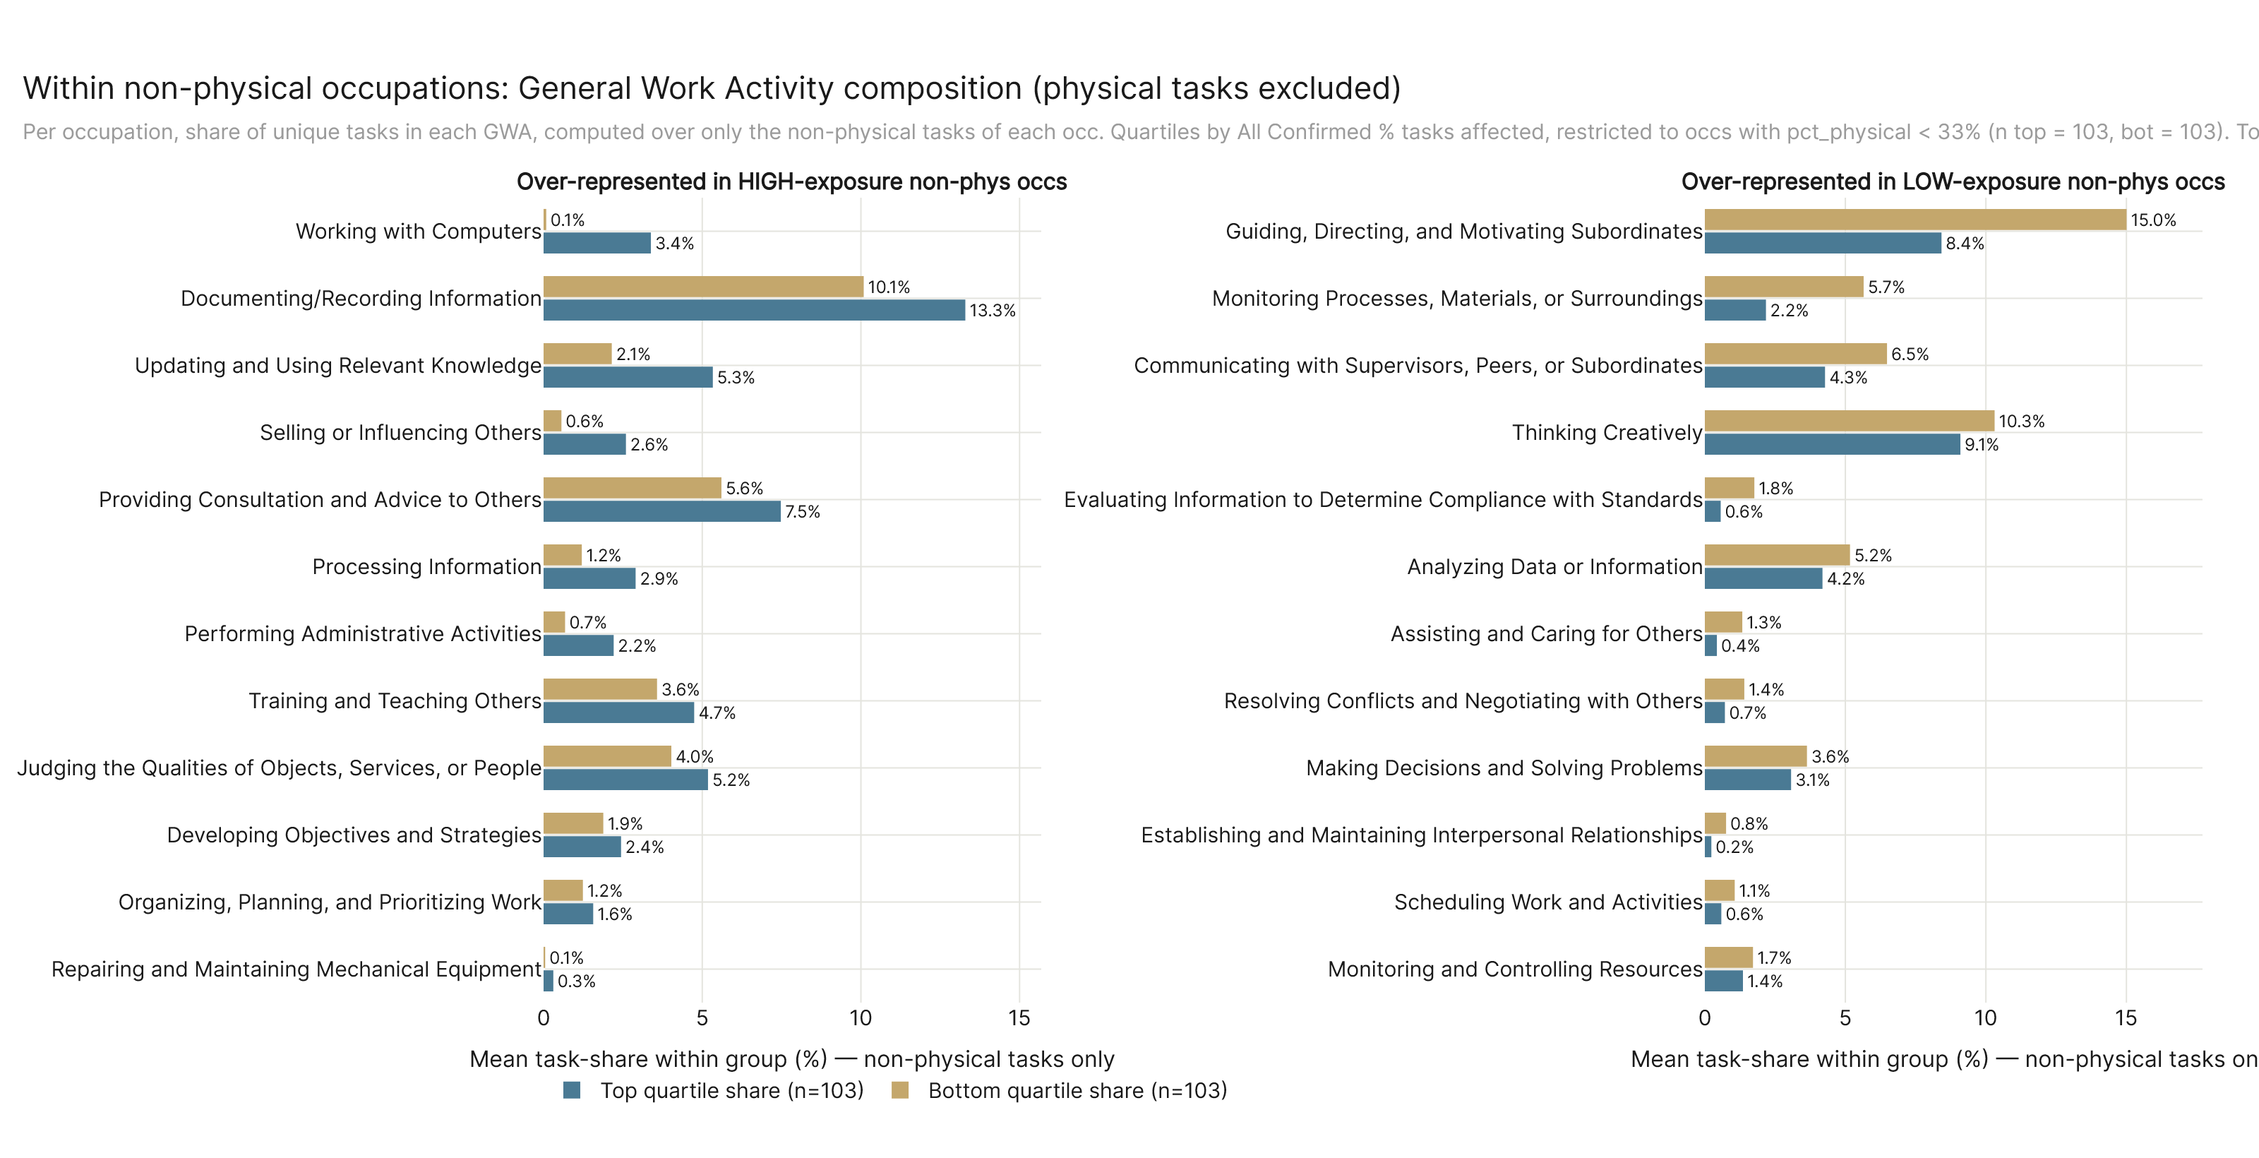
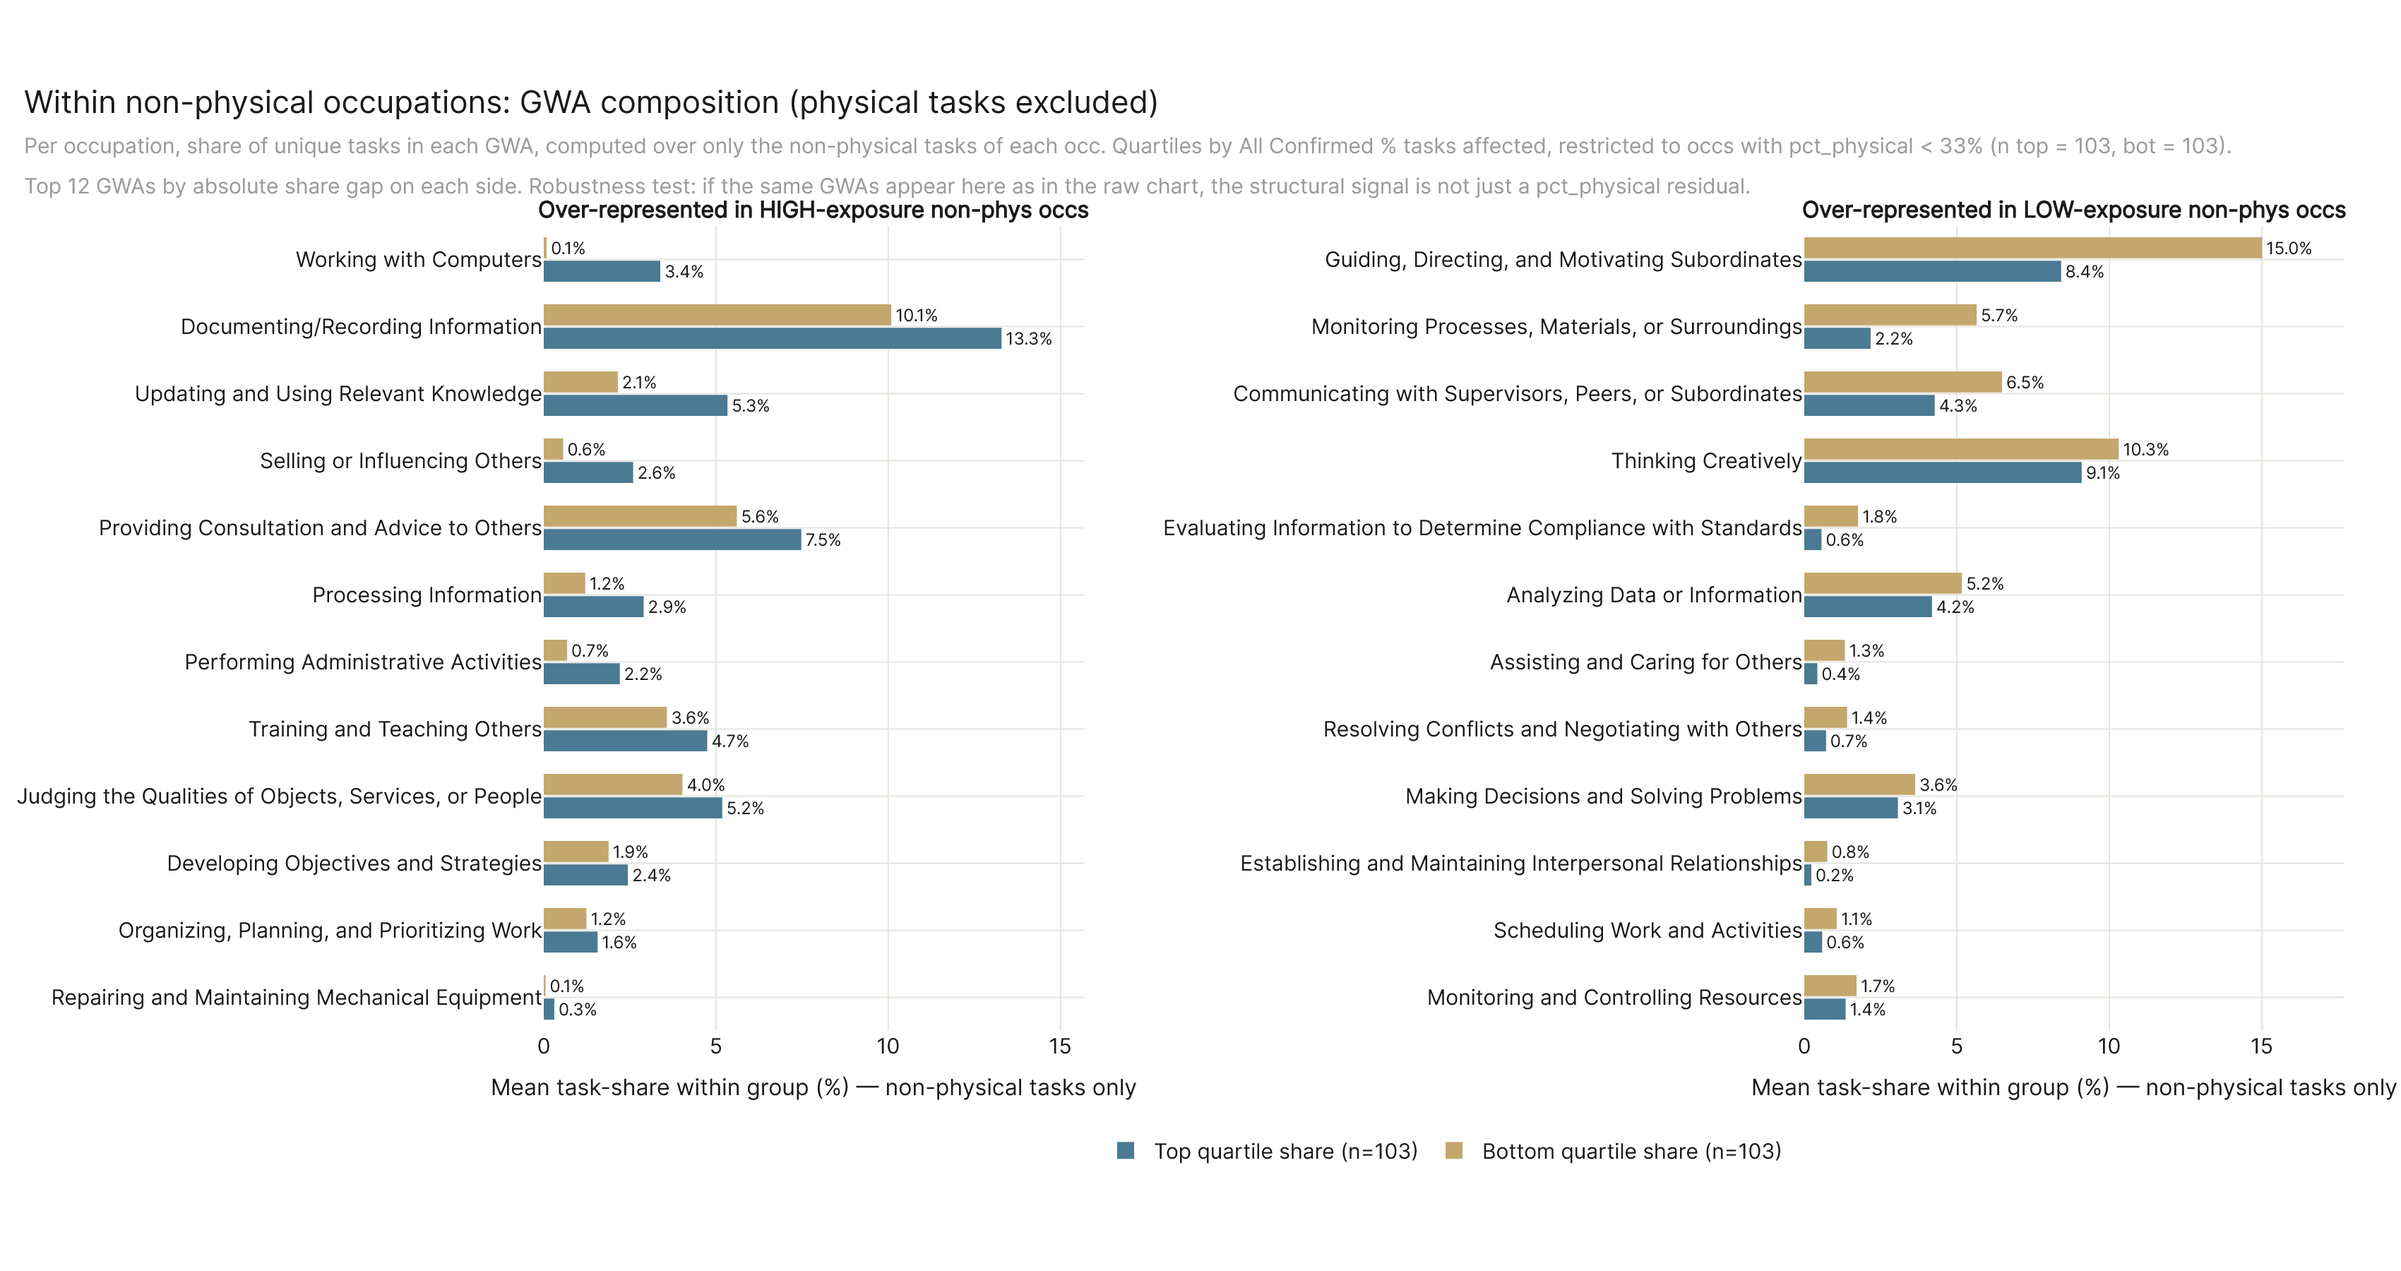
appendix: add friction/capability variant tables + fix A2c chart styling
Three new tables in appendix_charts.md, each loaded fresh from the
deepdive_within_nonphys_signal CSVs:

1. Friction variants × per-task weight — Cohen's d on r/tf/df singles,
   sum, mean, product, inverted-mult; weights × {1, freq, imp, rel,
   value=freq×imp×rel}. All three-prop combos hit |d| ≈ 1.5 regardless of
   form; choice of weight barely matters.

2. Capability variants × per-task weight — same shape on m/d/s singles
   plus product variants (d·s, d·m, m·s, d·m·s). `s` alone is the
   strongest single (|d| = 0.66 raw → 0.76 × value); `m` is essentially
   noise within non-phys (|d| < 0.20). Adding `m` to anything hurts.

3. Property × pct_physical × pct_tasks_affected Spearman ρ — both
   economy-wide (n=923) and within non-phys (n=409). Shows capability
   props are heavily entangled with the phys cut economy-wide (s = -0.67
   vs phys, +0.67 vs pct), but inside non-phys the entanglement collapses
   (|ρ| ≤ 0.13) and discriminative work shifts to friction.

Also fixed the nonphys_gwa_diff_phys_excluded chart styling: shorter
title, two-line subtitle (no truncation), wider canvas with bottom margin
for axis titles, explicit horizontal-centered legend.

diff --git a/analysis/exploratory/paperinfra_appendix/run.py b/analysis/exploratory/paperinfra_appendix/run.py
@@ -619,17 +619,26 @@ def build_nonphys_gwa_diff_phys_excluded(
 
     style_paper_figure(
         fig,
-        "Within non-physical occupations: General Work Activity composition (physical tasks excluded)",
+        "Within non-physical occupations: GWA composition (physical tasks excluded)",
         subtitle=(
-            f"Per occupation, share of unique tasks in each GWA, computed over only the non-physical tasks of each occ. "
-            f"Quartiles by All Confirmed % tasks affected, restricted to occs with pct_physical &lt; 33% "
-            f"(n top = {n_top}, bot = {n_bot}). Top {TOP_DIFF_N} GWAs by absolute share gap on each side. "
-            f"Tests whether the GWA composition signal is a pct_physical residual proxy — if the same GWAs appear here as in the raw chart with similar magnitudes, it is not."
+            "Per occupation, share of unique tasks in each GWA, computed over only the non-physical tasks of each occ. "
+            f"Quartiles by All Confirmed % tasks affected, restricted to occs with pct_physical &lt; 33% (n top = {n_top}, bot = {n_bot})."
+            f"<br>Top {TOP_DIFF_N} GWAs by absolute share gap on each side. "
+            "Robustness test: if the same GWAs appear here as in the raw chart, the structural signal is not just a pct_physical residual."
         ),
-        width=PAPER_W + 200,   # extra width for two long-label panels
-        height=820,
-        margin=dict(l=20, r=40, t=140, b=110),
+        width=PAPER_W + 300,   # wider canvas so labels + leader text don't clip
+        height=900,            # taller so x-axis title clears bottom margin
+        margin=dict(l=20, r=40, t=160, b=170),
     )
+
+    # Centered horizontal legend below the panels (default sits flush left)
+    fig.update_layout(legend=dict(
+        orientation="h",
+        yanchor="top", y=-0.12,
+        xanchor="center", x=0.5,
+        font=dict(size=LEGEND_FS, family=FONT_FAMILY),
+        bgcolor="rgba(0,0,0,0)",
+    ))
 
     # Style panel subtitle annotations to match the paper aesthetic
     panel_titles = {
@@ -862,8 +871,149 @@ def build_major_de_nt_plane(results: Path, figures: Path) -> None:
     print("  -> major_de_nt_plane.png")
 
 
+def _load_deepdive_csv(name: str) -> pd.DataFrame | None:
+    """Pull a CSV from the deepdive folder if it exists; None if not."""
+    src = (ROOT / "analysis" / "exploratory" / "deepdive_within_nonphys_signal"
+           / "results" / name)
+    if not src.exists():
+        return None
+    return pd.read_csv(src)
+
+
+def _df_to_md_table(df: pd.DataFrame, fmt: str = "{:+.2f}",
+                    int_cols: tuple[str, ...] = ()) -> str:
+    """Render a small DataFrame as a GitHub-flavored markdown table with the
+    first column rendered as-is (label) and remaining columns formatted via
+    `fmt`. int_cols are rendered as integers."""
+    cols = list(df.columns)
+    header = "| " + " | ".join(cols) + " |"
+    sep = "| " + " | ".join(["---"] * len(cols)) + " |"
+    rows = [header, sep]
+    for _, row in df.iterrows():
+        cells = [str(row[cols[0]])]
+        for c in cols[1:]:
+            val = row[c]
+            if c in int_cols:
+                cells.append(f"{int(val)}" if pd.notna(val) else "—")
+            elif pd.isna(val):
+                cells.append("—")
+            else:
+                cells.append(fmt.format(val))
+        rows.append("| " + " | ".join(cells) + " |")
+    return "\n".join(rows)
+
+
+def _build_appendix_tables_section() -> str:
+    """Build the markdown section that holds the two within-non-phys
+    discrimination tables + the property correlation table. Each one is read
+    fresh from the deepdive folder's CSVs; if any is missing, that subsection
+    falls back to a single 'Not generated' line."""
+    fric = _load_deepdive_csv("nonphys_friction_weighted_variants_matrix.csv")
+    cap = _load_deepdive_csv("nonphys_capability_weighted_variants_matrix.csv")
+    cor = _load_deepdive_csv("property_phys_exposure_correlations.csv")
+
+    parts: list[str] = []
+    parts.append("---\n\n## Within-non-phys discrimination — friction × weight\n")
+    parts.append(
+        "Cohen's d on the same top vs bottom exposure quartile of the 409 "
+        "non-physical occupations (n=103 each), with each friction-property "
+        "composite computed as a per-occ weighted mean across the occ's "
+        "unique tasks. Negative d = top quartile lower on the property "
+        "(predicted friction direction).\n"
+    )
+    if fric is not None:
+        parts.append(_df_to_md_table(fric, fmt="{:+.2f}") + "\n")
+        parts.append(
+            "Reading: every three-property combination of r/tf/df hits "
+            "|d| ≈ 1.5; single props top out at 1.35. Choice of weight "
+            "barely matters (× freq drags d down ~0.15; × imp and × rel are "
+            "within rounding error of raw; × value is consistently the "
+            "weakest). The combination is what carries the signal, not the "
+            "algebraic form, and not the per-task weight.\n"
+        )
+    else:
+        parts.append("_Friction matrix not generated yet — run "
+                     "`analysis.exploratory.deepdive_within_nonphys_signal.run`._\n")
+
+    parts.append("---\n\n## Within-non-phys discrimination — capability × weight\n")
+    parts.append(
+        "Same shape as the friction table but on the three capability "
+        "enablers (m / d / s). Predicted direction: top quartile HIGHER on "
+        "capability (positive d). Composites include each prop alone, the "
+        "sum / mean of all three, the slim two-prop products (d·s, d·m, "
+        "m·s), and the audit_task_properties Composite B (d·m·s).\n"
+    )
+    if cap is not None:
+        parts.append(_df_to_md_table(cap, fmt="{:+.2f}") + "\n")
+        parts.append(
+            "Reading: `s` alone is the strongest single discriminator "
+            "(|d| = 0.66 raw → 0.76 × value). `d` is second (0.48 → 0.62). "
+            "`m` is essentially noise within non-phys (|d| < 0.20). "
+            "Adding `m` to anything *hurts* (d·m < d alone; m·s < s alone). "
+            "Composite B (d·m·s) is worse than `s` alone. The audit_task_"
+            "properties result that `s` carries most of the capability "
+            "signal holds inside non-phys too, and the lift from layering "
+            "`d` on top of `s` is small. Notably, capability d-values top "
+            "out at 0.76 — meaningfully smaller than the 1.51 the friction "
+            "composites reach. **Inside non-phys, friction discriminates "
+            "exposure better than capability does.**\n"
+        )
+    else:
+        parts.append("_Capability matrix not generated yet — run "
+                     "`analysis.exploratory.deepdive_within_nonphys_signal.run`._\n")
+
+    parts.append("---\n\n## Property × pct_physical × pct_tasks_affected — Spearman ρ\n")
+    parts.append(
+        "How much each LLM-rated property tracks (a) pct_physical and "
+        "(b) pct_tasks_affected, both economy-wide (n=923) and inside the "
+        "non-physical cut (n=409). The economy-wide columns show capability "
+        "and forward-looking props are heavily entangled with the phys/"
+        "non-phys split; the within-non-phys columns show how much *direct* "
+        "discriminative signal each prop carries after that cut.\n"
+    )
+    if cor is not None:
+        # Reduce to a friendlier 5-column table
+        view = cor[[
+            "property",
+            "rho_vs_phys_all_eco", "rho_vs_pct_all_eco",
+            "rho_vs_phys_within_nonphys", "rho_vs_pct_within_nonphys",
+        ]].copy()
+        view.columns = [
+            "property",
+            "ρ vs phys (all eco, n=923)",
+            "ρ vs pct (all eco, n=923)",
+            "ρ vs phys (non-phys, n=409)",
+            "ρ vs pct (non-phys, n=409)",
+        ]
+        parts.append(_df_to_md_table(view, fmt="{:+.2f}") + "\n")
+        parts.append(
+            "Reading, in order:\n"
+            "1. **Economy-wide, capability props are strongly negative against "
+            "pct_physical** (s = −0.67, d = −0.59, m = +0.12 is the outlier). "
+            "Every forward-looking prop (de, nt, ac) sits at −0.59 to −0.62. "
+            "These props are partially proxying the cognitive/physical cut.\n"
+            "2. **Economy-wide vs pct_tasks_affected mirrors that:** s = +0.67, "
+            "d = +0.58, de = +0.52. The same props that anti-correlate with "
+            "pct_physical positively correlate with exposure.\n"
+            "3. **Inside non-phys, capability ρ-vs-phys collapses to |ρ| ≤ 0.13.** "
+            "There's not much pct_physical residual to leak through, which is "
+            "consistent with the chart-0 diagnostic finding that pct_physical "
+            "leaves ~89% of within-non-phys variance unexplained.\n"
+            "4. **Inside non-phys, friction wins for direct discrimination:** "
+            "r = −0.44, df = −0.34, tf = −0.27 against pct. The strongest "
+            "capability prop is s at +0.25. So once you cut to non-phys, "
+            "the discriminative work shifts from capability to friction.\n"
+        )
+    else:
+        parts.append("_Correlation table not generated yet — run "
+                     "`analysis.exploratory.deepdive_within_nonphys_signal.run`._\n")
+
+    return "\n".join(parts)
+
+
 def write_markdown() -> None:
     md_path = HERE / "appendix_charts.md"
+    extra = _build_appendix_tables_section()
     md_path.write_text(
         "# Appendix figures\n"
         "\n"
@@ -905,7 +1055,9 @@ def write_markdown() -> None:
         "All-Confirmed % tasks affected. Dashed lines at the per-axis "
         "medians split the plane into four readable quadrants.\n"
         "\n"
-        "![major_de_nt_plane](figures/major_de_nt_plane.png)\n",
+        "![major_de_nt_plane](figures/major_de_nt_plane.png)\n"
+        "\n"
+        + extra,
         encoding="utf-8",
     )
     print(f"  -> {md_path.relative_to(ROOT)}")

diff --git a/analysis/exploratory/paperinfra_appendix/appendix_charts.md b/analysis/exploratory/paperinfra_appendix/appendix_charts.md
@@ -29,3 +29,68 @@ Within the 409 non-physical occupations, the General Work Activity composition t
 Each of the 22 SOC major occupational categories plotted on the demand-elasticity × new-task-creation plane (LLM-rated task properties, 1–5 scale, averaged per major over unique tasks). Dot size scales with workers affected; color encodes the major's All-Confirmed % tasks affected. Dashed lines at the per-axis medians split the plane into four readable quadrants.
 
 ![major_de_nt_plane](figures/major_de_nt_plane.png)
+
+---
+
+## Within-non-phys discrimination — friction × weight
+
+Cohen's d on the same top vs bottom exposure quartile of the 409 non-physical occupations (n=103 each), with each friction-property composite computed as a per-occ weighted mean across the occ's unique tasks. Negative d = top quartile lower on the property (predicted friction direction).
+
+| composite | × 1 (raw) | × freq | × imp | × rel | × value (freq×imp×rel) |
+| --- | --- | --- | --- | --- | --- |
+| r — risk | -1.35 | -1.22 | -1.34 | -1.35 | -1.19 |
+| tf — trust friction | -0.86 | -0.76 | -0.87 | -0.86 | -0.73 |
+| df — deployment friction | -0.98 | -0.89 | -0.98 | -0.97 | -0.86 |
+| sum (r+tf+df) | -1.51 | -1.35 | -1.51 | -1.52 | -1.31 |
+| mean (r+tf+df)/3 | -1.51 | -1.35 | -1.51 | -1.52 | -1.31 |
+| product r·tf·df | -1.50 | -1.37 | -1.49 | -1.52 | -1.34 |
+| inverted-mult (6-r)·(6-tf)·(6-df) | +1.40 | +1.20 | +1.40 | +1.39 | +1.15 |
+
+Reading: every three-property combination of r/tf/df hits |d| ≈ 1.5; single props top out at 1.35. Choice of weight barely matters (× freq drags d down ~0.15; × imp and × rel are within rounding error of raw; × value is consistently the weakest). The combination is what carries the signal, not the algebraic form, and not the per-task weight.
+
+---
+
+## Within-non-phys discrimination — capability × weight
+
+Same shape as the friction table but on the three capability enablers (m / d / s). Predicted direction: top quartile HIGHER on capability (positive d). Composites include each prop alone, the sum / mean of all three, the slim two-prop products (d·s, d·m, m·s), and the audit_task_properties Composite B (d·m·s).
+
+| composite | × 1 (raw) | × freq | × imp | × rel | × value (freq×imp×rel) |
+| --- | --- | --- | --- | --- | --- |
+| m — measurability | +0.07 | +0.15 | +0.10 | +0.09 | +0.19 |
+| d — data abundance | +0.47 | +0.60 | +0.52 | +0.47 | +0.62 |
+| s — algorithmic similarity | +0.66 | +0.72 | +0.71 | +0.66 | +0.76 |
+| sum (m+d+s) | +0.38 | +0.47 | +0.43 | +0.39 | +0.51 |
+| mean (m+d+s)/3 | +0.38 | +0.47 | +0.43 | +0.39 | +0.51 |
+| product d·s | +0.61 | +0.70 | +0.66 | +0.61 | +0.73 |
+| product d·m | +0.29 | +0.38 | +0.32 | +0.30 | +0.41 |
+| product m·s | +0.35 | +0.43 | +0.39 | +0.37 | +0.47 |
+| product d·m·s  (Composite B from audit_task_properties) | +0.44 | +0.53 | +0.47 | +0.45 | +0.56 |
+
+Reading: `s` alone is the strongest single discriminator (|d| = 0.66 raw → 0.76 × value). `d` is second (0.48 → 0.62). `m` is essentially noise within non-phys (|d| < 0.20). Adding `m` to anything *hurts* (d·m < d alone; m·s < s alone). Composite B (d·m·s) is worse than `s` alone. The audit_task_properties result that `s` carries most of the capability signal holds inside non-phys too, and the lift from layering `d` on top of `s` is small. Notably, capability d-values top out at 0.76 — meaningfully smaller than the 1.51 the friction composites reach. **Inside non-phys, friction discriminates exposure better than capability does.**
+
+---
+
+## Property × pct_physical × pct_tasks_affected — Spearman ρ
+
+How much each LLM-rated property tracks (a) pct_physical and (b) pct_tasks_affected, both economy-wide (n=923) and inside the non-physical cut (n=409). The economy-wide columns show capability and forward-looking props are heavily entangled with the phys/non-phys split; the within-non-phys columns show how much *direct* discriminative signal each prop carries after that cut.
+
+| property | ρ vs phys (all eco, n=923) | ρ vs pct (all eco, n=923) | ρ vs phys (non-phys, n=409) | ρ vs pct (non-phys, n=409) |
+| --- | --- | --- | --- | --- |
+| m | +0.12 | +0.00 | +0.10 | +0.03 |
+| d | -0.59 | +0.58 | -0.12 | +0.20 |
+| s | -0.67 | +0.67 | -0.12 | +0.25 |
+| h | -0.23 | +0.30 | -0.01 | +0.18 |
+| e | -0.40 | +0.23 | -0.12 | -0.23 |
+| r | -0.02 | -0.16 | +0.05 | -0.44 |
+| tf | -0.41 | +0.21 | -0.05 | -0.27 |
+| df | +0.03 | -0.15 | +0.02 | -0.34 |
+| t | -0.56 | +0.42 | -0.22 | -0.09 |
+| ac | -0.62 | +0.46 | -0.12 | -0.18 |
+| de | -0.59 | +0.52 | -0.09 | +0.08 |
+| nt | -0.62 | +0.43 | -0.18 | -0.23 |
+
+Reading, in order:
+1. **Economy-wide, capability props are strongly negative against pct_physical** (s = −0.67, d = −0.59, m = +0.12 is the outlier). Every forward-looking prop (de, nt, ac) sits at −0.59 to −0.62. These props are partially proxying the cognitive/physical cut.
+2. **Economy-wide vs pct_tasks_affected mirrors that:** s = +0.67, d = +0.58, de = +0.52. The same props that anti-correlate with pct_physical positively correlate with exposure.
+3. **Inside non-phys, capability ρ-vs-phys collapses to |ρ| ≤ 0.13.** There's not much pct_physical residual to leak through, which is consistent with the chart-0 diagnostic finding that pct_physical leaves ~89% of within-non-phys variance unexplained.
+4. **Inside non-phys, friction wins for direct discrimination:** r = −0.44, df = −0.34, tf = −0.27 against pct. The strongest capability prop is s at +0.25. So once you cut to non-phys, the discriminative work shifts from capability to friction.
